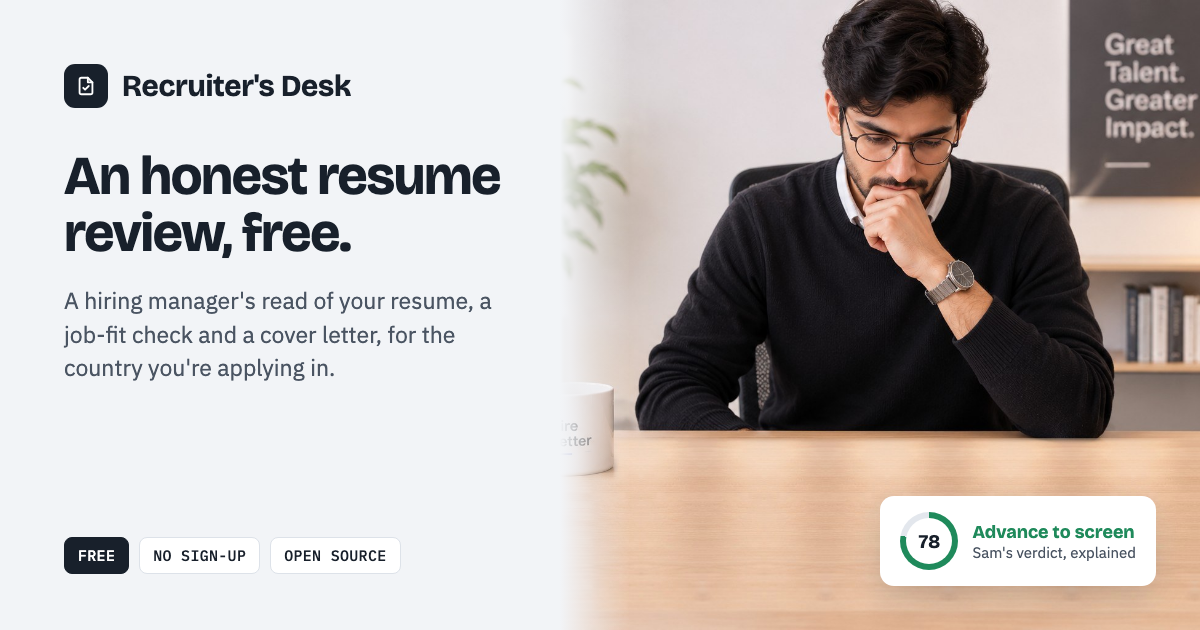
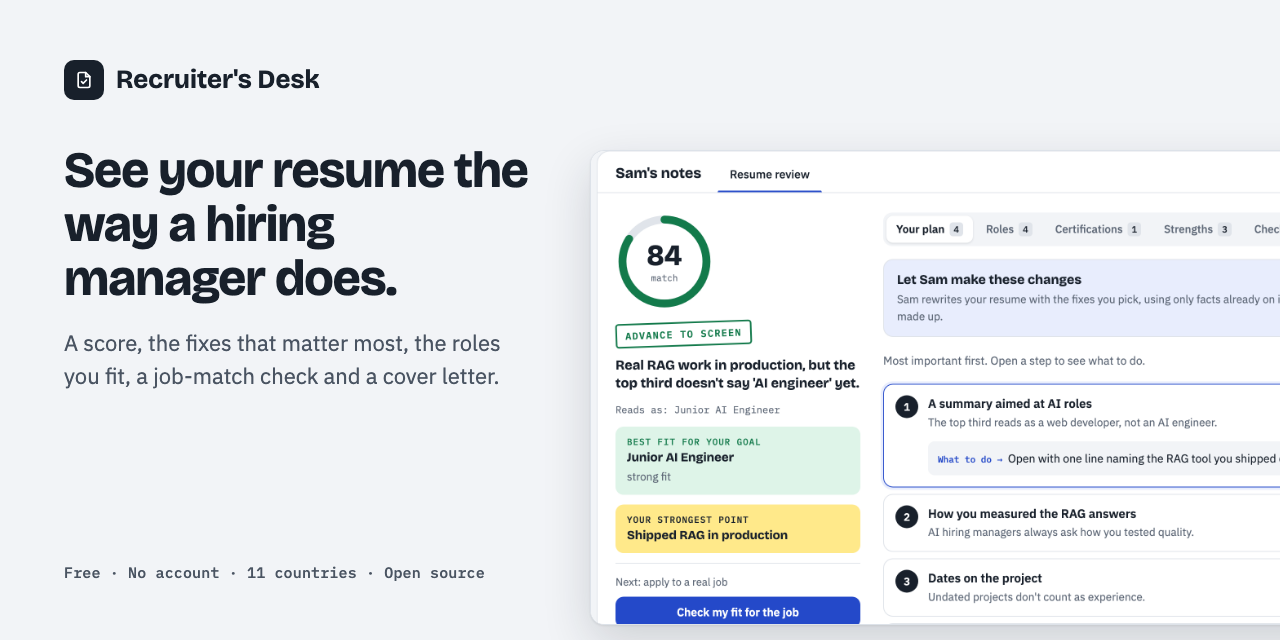
Preview image: plain headline beside a real screenshot of Sam's notes (1280x640)

diff --git a/docs/og-card.html b/docs/og-card.html
@@ -1,29 +1,65 @@
 <!doctype html><html><head><meta charset="utf-8">
-<!-- Source for og.png (the link-preview image). Render: headless Chrome --window-size=1200,630 --screenshot -->
+<!-- Source for og.png, the link-preview image (1280x640). Pick a layout with #a, #b or #c, then:
+     Chrome --headless=new --window-size=1280,640 --screenshot=og.png "file://.../docs/og-card.html#a" -->
 <link rel="stylesheet" href="https://fonts.googleapis.com/css2?family=Bricolage+Grotesque:opsz,wght@12..96,600;12..96,700&family=IBM+Plex+Sans:wght@400;500;600&family=IBM+Plex+Mono:wght@500&display=swap">
 <style>
   * { box-sizing: border-box; margin: 0; }
-  body { width: 1200px; height: 630px; display: grid; grid-template-columns: 560px 640px; background: #f2f4f7; font-family: "IBM Plex Sans", system-ui, sans-serif; color: #18202b; overflow: hidden; }
-  .copy { padding: 64px 48px 56px 64px; display: flex; flex-direction: column; }
-  .brand { display: flex; align-items: center; gap: 14px; font: 700 30px/1 "Bricolage Grotesque", sans-serif; letter-spacing: -.01em; }
-  .mark { width: 44px; height: 44px; border-radius: 11px; background: #18202b; display: grid; place-items: center; }
-  h1 { margin-top: 40px; font: 700 54px/1.06 "Bricolage Grotesque", sans-serif; letter-spacing: -.025em; }
-  p { margin-top: 22px; font-size: 23px; line-height: 1.45; color: #4a5462; }
-  .tags { margin-top: auto; display: flex; gap: 10px; flex-wrap: wrap; }
-  .tags span { font: 500 15px/1 "IBM Plex Mono", monospace; letter-spacing: .02em; text-transform: uppercase; padding: 10px 13px; border-radius: 8px; background: #fff; border: 1px solid #dde2e9; }
-  .tags span.free { background: #18202b; color: #fff; border-color: #18202b; }
-  .photo { position: relative; background: url(../desk.jpg) 42% 30% / cover no-repeat; }
-  .photo::before { content: ""; position: absolute; inset: 0; background: linear-gradient(90deg, #f2f4f7 0, rgba(242,244,247,0) 70px); }
-  .stamp { position: absolute; right: 44px; bottom: 44px; background: #fff; border-radius: 14px; padding: 16px 20px; box-shadow: 0 12px 32px rgba(24,32,43,.18); display: flex; align-items: center; gap: 14px; }
-  .ring { width: 58px; height: 58px; border-radius: 50%; background: conic-gradient(#1f8a5b 0 78%, #e3e7ed 0); display: grid; place-items: center; }
-  .ring b { width: 46px; height: 46px; border-radius: 50%; background: #fff; display: grid; place-items: center; font: 700 19px "Bricolage Grotesque", sans-serif; }
-  .stamp div { font-size: 15px; color: #4a5462; } .stamp strong { display: block; font: 700 18px "Bricolage Grotesque", sans-serif; color: #1f8a5b; }
+  body { width: 1280px; height: 640px; overflow: hidden; font-family: "IBM Plex Sans", system-ui, sans-serif; color: #18202b; background: #f2f4f7; }
+  .v { display: none; width: 1280px; height: 640px; position: relative; overflow: hidden; }
+  .brand { display: flex; align-items: center; gap: 12px; font: 700 26px/1 "Bricolage Grotesque", sans-serif; }
+  .mark { width: 40px; height: 40px; border-radius: 10px; background: #18202b; display: grid; place-items: center; }
+  .facts { font: 500 15px/1 "IBM Plex Mono", monospace; white-space: nowrap; color: #4a5462; letter-spacing: .01em; }
+  .shot { border-radius: 14px; box-shadow: 0 1px 2px rgba(24,32,43,.08), 0 18px 48px rgba(24,32,43,.16); overflow: hidden; background: #fff; border: 1px solid #dde2e9; }
+  .shot img { display: block; width: 100%; }
+  /* A: words left, the real notes right */
+  #a .copy { position: absolute; left: 64px; top: 60px; width: 470px; height: 520px; display: flex; flex-direction: column; }
+  #a h1 { margin-top: 44px; font: 700 50px/1.08 "Bricolage Grotesque", sans-serif; letter-spacing: -.02em; }
+  #a p { margin-top: 20px; font-size: 22px; line-height: 1.5; color: #4a5462; }
+  #a .facts { margin-top: auto; }
+  #a .shot { position: absolute; left: 590px; top: 150px; width: 1120px; }
+  /* B: Sam's photo, with his real notes over it */
+  #b { background: #18202b; }
+  #b .photo { position: absolute; inset: 0 auto 0 0; width: 620px; background: url(../desk.jpg) 40% 30% / cover; }
+  #b .photo::after { content: ""; position: absolute; inset: 0; background: linear-gradient(90deg, rgba(24,32,43,0) 38%, rgba(24,32,43,.85) 80%, #18202b 96%); }
+  #b .head { position: absolute; left: 600px; top: 58px; right: 56px; color: #fff; }
+  #b .brand { color: #fff; } #b .mark { background: #fff; }
+  #b h1 { margin-top: 26px; font: 700 40px/1.12 "Bricolage Grotesque", sans-serif; letter-spacing: -.015em; }
+  #b .shot { position: absolute; left: 600px; top: 262px; width: 960px; border: 0; }
+  #b .facts { position: absolute; left: 600px; bottom: 30px; color: #b8c0cc; display: none; }
+  /* C: plain words only */
+  #c { background: #fff; padding: 64px; }
+  #c h1 { margin-top: 48px; font: 700 56px/1.06 "Bricolage Grotesque", sans-serif; letter-spacing: -.025em; max-width: 900px; }
+  #c ul { margin-top: 36px; padding: 0; list-style: none; display: grid; grid-template-columns: 1fr 1fr; gap: 14px 40px; max-width: 1050px; }
+  #c li { font-size: 23px; line-height: 1.35; color: #2b3440; padding-left: 30px; position: relative; }
+  #c li::before { content: ""; position: absolute; left: 0; top: 11px; width: 12px; height: 12px; border-radius: 3px; background: #2449c9; }
+  #c .facts { position: absolute; left: 64px; bottom: 56px; }
+  #c .url { position: absolute; right: 64px; bottom: 52px; font: 600 22px "IBM Plex Sans", sans-serif; color: #2449c9; }
 </style></head><body>
-  <div class="copy">
-    <div class="brand"><span class="mark"><svg width="22" height="22" viewBox="0 0 24 24" fill="none" stroke="#fff" stroke-width="2" stroke-linecap="round" stroke-linejoin="round"><path d="M14 3H7a2 2 0 0 0-2 2v14a2 2 0 0 0 2 2h10a2 2 0 0 0 2-2V8z"/><path d="M14 3v5h5"/><path d="m9 14 2 2 4-4"/></svg></span>Recruiter's Desk</div>
-    <h1>An honest resume review, free.</h1>
-    <p>A hiring manager's read of your resume, a job-fit check and a cover letter, for the country you're applying in.</p>
-    <div class="tags"><span class="free">Free</span><span>No sign-up</span><span>Open source</span></div>
-  </div>
-  <div class="photo"><div class="stamp"><span class="ring"><b>78</b></span><div><strong>Advance to screen</strong>Sam's verdict, explained</div></div></div>
+<template id="brand"><div class="brand"><span class="mark"><svg width="20" height="20" viewBox="0 0 24 24" fill="none" stroke="currentColor" stroke-width="2" stroke-linecap="round" stroke-linejoin="round"><path d="M14 3H7a2 2 0 0 0-2 2v14a2 2 0 0 0 2 2h10a2 2 0 0 0 2-2V8z"/><path d="M14 3v5h5"/><path d="m9 14 2 2 4-4"/></svg></span>Recruiter's Desk</div></template>
+
+<div class="v" id="a">
+  <div class="copy"><div data-brand></div>
+    <h1>See your resume the way a hiring manager does.</h1>
+    <p>A score, the fixes that matter most, the roles you fit, a job-match check and a cover letter.</p>
+    <div class="facts">Free · No account · 11 countries · Open source</div></div>
+  <div class="shot"><img src="ui-notes.png" alt=""></div>
+</div>
+
+<div class="v" id="b">
+  <div class="photo"></div>
+  <div class="head"><div data-brand></div><h1>A free resume review, written the way a recruiter would.</h1></div>
+  <div class="shot"><img src="ui-notes.png" alt=""></div>
+</div>
+
+<div class="v" id="c">
+  <div data-brand></div>
+  <h1>Find out why your resume isn't getting callbacks.</h1>
+  <ul><li>A score out of 100, explained part by part</li><li>Fixes in order of impact</li><li>Your fit for any job post</li><li>A cover letter in your country's format</li></ul>
+  <div class="facts">Free · No account · Open source</div><div class="url">recruiters-desk.pages.dev</div>
+</div>
+<script>
+  for (const el of document.querySelectorAll("[data-brand]")) el.replaceWith(document.getElementById("brand").content.cloneNode(true));
+  document.querySelectorAll(".mark svg").forEach(s => s.style.color = getComputedStyle(s.closest(".v")).backgroundColor === "rgb(24, 32, 43)" ? "#18202b" : "#fff");
+  (document.getElementById(location.hash.slice(1)) || document.getElementById("a")).style.display = "block";
+</script>
 </body></html>

diff --git a/index.html b/index.html
@@ -2,7 +2,7 @@
 <html lang="en">
 <head>
 <meta charset="utf-8">
-<meta name="build" content="20261104181103">
+<meta name="build" content="20261104182234">
 <meta name="viewport" content="width=device-width,initial-scale=1,viewport-fit=cover">
 <link rel="canonical" href="https://recruiters-desk.pages.dev/">
 <script>if (/\.github\.io$/.test(location.hostname)) location.replace("https://recruiters-desk.pages.dev/" + location.search + location.hash)</script>
@@ -12,9 +12,9 @@
 <meta property="og:type" content="website">
 <meta property="og:url" content="https://recruiters-desk.pages.dev/">
 <meta property="og:image" content="https://recruiters-desk.pages.dev/og.png">
-<meta property="og:image:width" content="1200">
-<meta property="og:image:height" content="630">
-<meta property="og:image:alt" content="Recruiter's Desk: an honest resume review, free">
+<meta property="og:image:width" content="1280">
+<meta property="og:image:height" content="640">
+<meta property="og:image:alt" content="Recruiter's Desk: see your resume the way a hiring manager does">
 <meta name="twitter:card" content="summary_large_image">
 <style>:root{color-scheme:light;padding-top:env(safe-area-inset-top,0px);padding-bottom:env(safe-area-inset-bottom,0px)}body{margin:0;font:14px system-ui,sans-serif}img{max-width:100%}[hidden]{display:none!important}</style>
 </head>
@@ -1236,15 +1236,15 @@ const ERR = {
   popup_blocked: "Your browser blocked the small sign-in window that gives you a free guest account. Allow pop-ups for this site, then click Try again.",
   auth_closed: "The Puter window closed before it finished. Puter is the free service that runs me. Click Try again to open it.",
   verify: "Puter, the free service I'm using right now, asked for an extra check (a phone number). That's Puter's anti-spam rule, not this site's. Try again later.",
-  no_ai: "I couldn't reach the free AI service. Check your connection (and allow js.puter.com if an ad blocker is on), then reload the page.",
+  no_ai: "I couldn't reach the free AI service. Check your internet connection. If you use an ad blocker, turn it off for this site, then reload the page.",
   backup_busy: "My free backup has reached today's limit. Try again tomorrow, or click Try again and choose Continue in the Puter window.",
   session_expired: "Your Claude session expired. Sign in again at claude.ai, then retry.",
   prompt_too_large: "That's more text than I can read at once. Trim the resume or job post and try again.",
-  invalid_json: "My notes came out garbled. Try again.",
+  invalid_json: "My notes came out incomplete, so I didn't show them. Please try again.",
   refused: "I can't help with that text. Check what you pasted and try again.",
   empty_completion: "I came back with nothing to say, which shouldn't happen. Try again.",
   upstream_error: window.claude?.use ? "The connection to Claude dropped before I finished. Try again; the next try uses a faster model." : "The connection to the AI dropped before I finished. Try again.",
-  invalid_request: "Something in this page's request was wrong. Try again; if it keeps happening, it's a bug in the page.",
+  invalid_request: "Something went wrong on my side. Please try again. If it keeps happening, let us know on GitHub.",
   capability_removed: "This Claude app is too old for this page. Update or reload Claude, then try again.",
   capability_disabled: "Claude can't run in this view. Open the page at claude.ai in a browser.",
 };
@@ -2151,7 +2151,8 @@ function loadingBlock(text) {
 function errorBlock(e, kind) {
   const retry = h("button", { class: e?.code === "needs_click" ? "btn-primary" : "btn-ghost", type: "button" }, e?.code === "needs_click" ? "Continue" : "Try again");
   retry.onclick = () => run(kind);
-  return h("div", { class: "errbox", role: "alert" }, h("span", {}, errMsg(e)), retry, h("span", { class: "hint" }, "Error code: " + str(e?.code || "unknown") + (lastPath && !inClaude ? ` (via ${lastPath})` : "")));
+  // people see plain words only; the technical code stays on the element for anyone reporting a bug
+  return h("div", { class: "errbox", role: "alert", "data-code": str(e?.code || "unknown") + (lastPath && !inClaude ? " via " + lastPath : "") }, h("span", {}, errMsg(e)), retry);
 }
 // the resume review judges the resume on its own; only the fit check and the letter depend on the job post
 const inputKey = (kind) => resumeEl.value.trim() + "\u0000" + (kind === "review" ? "" : jdEl.value.trim()) + "\u0000" + (kind === "review" ? targetEl.value.trim() : "") + "\u0000" + $("region").value;
